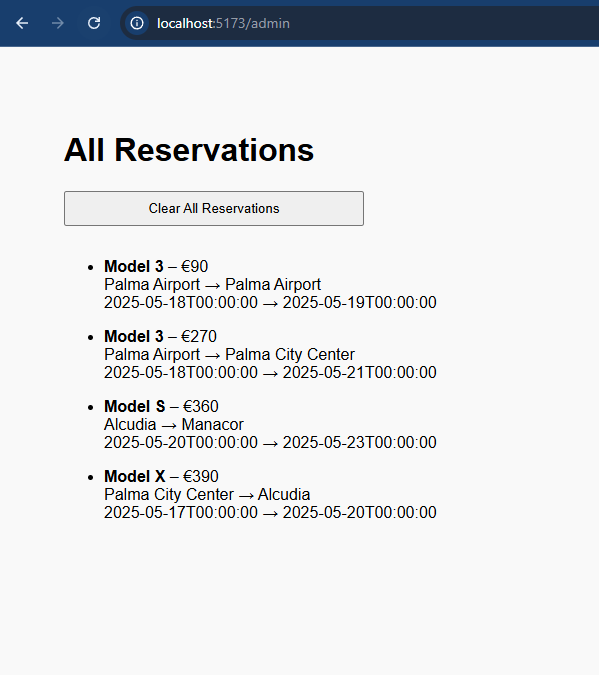
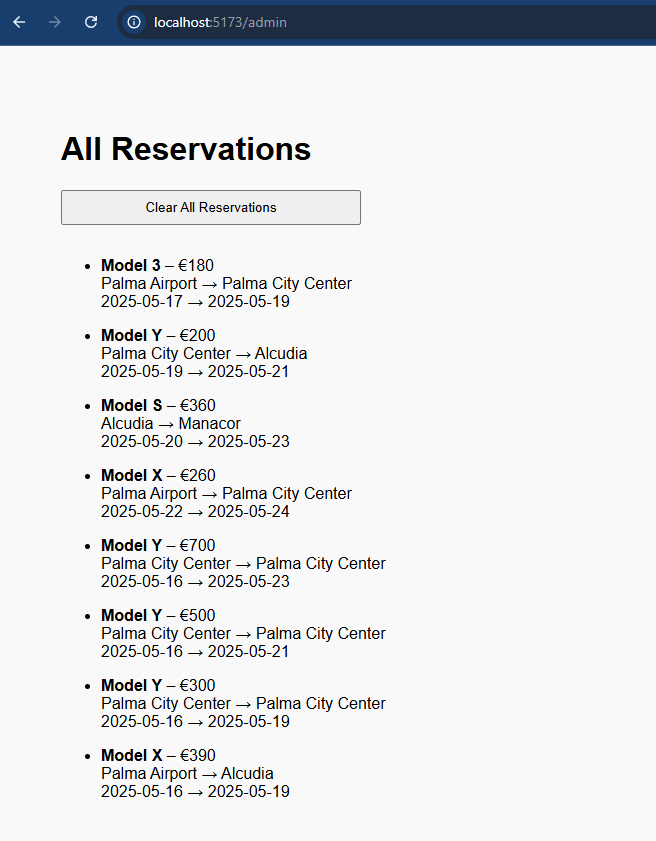
Change date format

Changed region(s): [[0.0902, 0.1556, 0.7212, 0.9644], [0.0, 0.0, 1.0, 0.0933]]

diff --git a/frontend/src/pages/AdminPage.tsx b/frontend/src/pages/AdminPage.tsx
@@ -22,6 +22,9 @@ const AdminPage = () => {
             .catch((err) => setError(err.message));
     };
 
+    const formatDate = (dateString: string) =>
+        new Date(dateString).toISOString().split('T')[0];
+
     return (
         <div style={{ padding: '2rem' }}>
             <h1>All Reservations</h1>
@@ -38,7 +41,7 @@ const AdminPage = () => {
                     <li key={r.id} style={{ marginBottom: '1rem' }}>
                         <strong>{r.car.model}</strong> – €{r.totalCost}<br />
                         {r.pickupLocation.name} → {r.returnLocation.name}<br />
-                        {r.startDate} → {r.endDate}
+                        {formatDate(r.startDate)} → {formatDate(r.endDate)}
                     </li>
                 ))}
             </ul>
